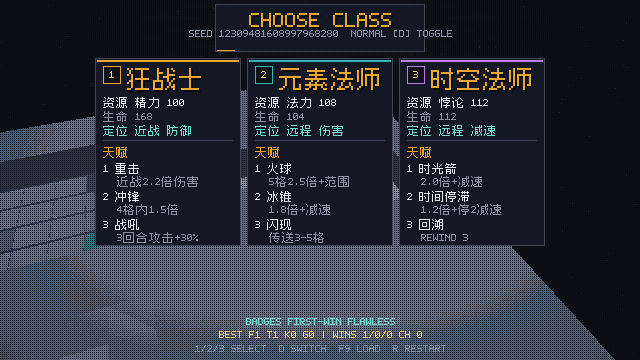
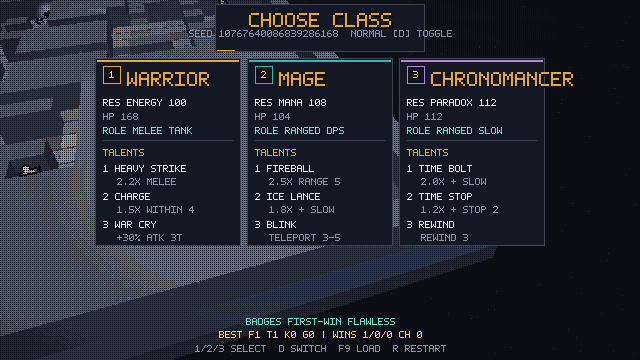
feat: english class cards and core hud

diff --git a/docs/LOCALIZATION.md b/docs/LOCALIZATION.md
@@ -12,13 +12,15 @@
 
 - 设置面板标题、11 行、值行、footer
 - 菜单标题、seed 行、footer
+- 职业卡：职业名/资源/定位/三个天赋名与描述
+- 核心 HUD：等级、楼层、敌人、回合、先攻、职业资源、热键栏状态
 - F2 按 L 切换 ZH/EN，settings.language 持久化
 - --lang en 可直接看英文设置/菜单
 
 ## 没有
 
 - 暂停/BADGES 仍是英文固定文案（中文模式下不切换）
-- HUD/战斗/日志/物品/敌人/职业卡未翻译
+- 敌人名/意图/战斗日志/物品/商店/祭坛/帮助/结算/底部天赋标签未翻译
 - 没有语言选择 UI（F2 里没有）
 - 没有英文截图/字体溢出验收
 - 没有内容翻译（406 去重字符串）
@@ -36,4 +38,4 @@
 - 历史日志切语言后不会重译
 - CJK 字体子集不影响 ASCII，但英文排版需重新测宽
 
-当前状态：**foundation only**，不是英文版。
+当前状态：**导航 + 职业卡 + 核心 HUD 部分英文**，不是完整英文版。截图：settings_en.png / menu_en.png / gameplay_en.png。
